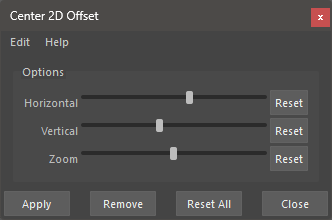
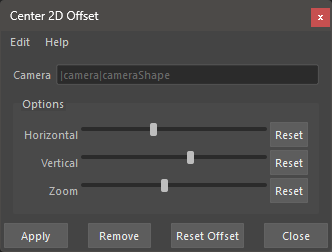
Maya Tool - Fix Center 2D Offset node update bug
The Center 2D Offset UI was not updating the nodes used under the hood
when the centering was created after the UI was opened - it only found
the nodes when the UI was opened.

Added a "Camera" label, so the user can see which camera is being
controlled.

Renamed "Reset All" button to "Reset Offset" because the later is more
descriptive to what the button actually does - What does "Reset All"
mean? What is "all"?

diff --git a/python/mmSolver/tools/centertwodee/ui/centertwodee_window.py b/python/mmSolver/tools/centertwodee/ui/centertwodee_window.py
@@ -65,8 +65,11 @@ class CenterTwoDeeWindow(BaseWindow):
         super(CenterTwoDeeWindow, self).__init__(parent, name=name)
         self.setupUi(self)
         self.addSubForm(centertwodee_layout.CenterTwoDeeLayout)
-        self.offset_node, self.camera_shape = lib.get_offset_nodes()
         self.form = self.getSubForm()
+
+        self.offset_node = None
+        self.camera_shape = None
+        self.update_nodes()
 
         # Set slider defaults in subform
         self.set_initial_values()
@@ -81,7 +84,7 @@ class CenterTwoDeeWindow(BaseWindow):
         self.form.zoom_horizontalSlider.valueChanged.connect(self.form.zoomValueChanged)
         self.form.horizontal_signal.connect(self.horizontal_offset_node_update)
         self.form.vertical_signal.connect(self.vertical_offset_node_update)
-        self.form.zoom_signal.connect(self.camera_shape_update)
+        self.form.zoom_signal.connect(self.zoom_camera_shape_update)
 
         self.setWindowTitle(const.WINDOW_TITLE)
         self.setWindowFlags(QtCore.Qt.Tool)
@@ -94,7 +97,7 @@ class CenterTwoDeeWindow(BaseWindow):
         self.closeBtn.show()
         self.createBtn.setText('Apply')
         self.applyBtn.setText('Remove')
-        self.resetBtn.setText('Reset All')
+        self.resetBtn.setText('Reset Offset')
 
         self.createBtn.clicked.connect(self.apply_center)
         self.applyBtn.clicked.connect(self.remove_center)
@@ -132,7 +135,7 @@ class CenterTwoDeeWindow(BaseWindow):
         return
 
     @QtCore.Slot(float)
-    def camera_shape_update(self, value):
+    def zoom_camera_shape_update(self, value):
         output = lib.process_value(input_value=value, source='slider', zoom=True)
         if self.camera_shape:
             lib.set_zoom(self.camera_shape, output)
@@ -148,11 +151,28 @@ class CenterTwoDeeWindow(BaseWindow):
 
         tool.remove()
 
+    def update_nodes(self):
+        self.offset_node, self.camera_shape = lib.get_offset_nodes()
+
+        enabled = bool(self.offset_node and self.camera_shape)
+        self.form.horizontal_horizontalSlider.setEnabled(enabled)
+        self.form.vertical_horizontalSlider.setEnabled(enabled)
+        self.form.zoom_horizontalSlider.setEnabled(enabled)
+
+        if enabled is True:
+            self.form.camera_lineEdit.setText(self.camera_shape)
+        else:
+            self.form.camera_lineEdit.setText('')
+
+            # Ensure both are not set.
+            self.offset_node = None
+            self.camera_shape = None
+
     def reset_options(self):
         self.form.reset_options()
 
     def set_initial_values(self):
-        if not self.offset_node:
+        if not self.offset_node or not self.camera_shape:
             horizontal_slider_value = const.DEFAULT_SLIDER_VALUE
             vertical_slider_value = const.DEFAULT_SLIDER_VALUE
             zoom_slider_value = const.DEFAULT_SLIDER_VALUE

diff --git a/python/mmSolver/tools/centertwodee/tool.py b/python/mmSolver/tools/centertwodee/tool.py
@@ -35,6 +35,14 @@ import mmSolver.utils.reproject as reproject_utils
 LOG = mmSolver.logger.get_logger()
 
 
+def _update_ui_nodes():
+    import mmSolver.tools.centertwodee.ui.centertwodee_window as window
+
+    window_instance = window.CenterTwoDeeWindow.get_instance()
+    if window_instance is not None:
+        window_instance.update_nodes()
+
+
 def main():
     """
     Center the selected transform onto the camera view.
@@ -54,12 +62,14 @@ def main():
     if model_editor is None:
         msg = 'Please select an active 3D viewport.'
         LOG.warning(msg)
+        _update_ui_nodes()
         return
 
     cam_tfm, cam_shp = viewport_utils.get_viewport_camera(model_editor)
     if cam_shp is None:
         msg = 'Please select an active 3D viewport to get a camera.'
         LOG.warning(msg)
+        _update_ui_nodes()
         return
 
     try:
@@ -140,6 +150,7 @@ def main():
             maya.cmds.select(save_sel, replace=True)
     finally:
         mmapi.set_solver_running(False)
+        _update_ui_nodes()
     return
 
 
@@ -151,12 +162,14 @@ def remove():
     if model_editor is None:
         msg = 'Please select an active 3D viewport.'
         LOG.warning(msg)
+        _update_ui_nodes()
         return
 
     cam_tfm, cam_shp = viewport_utils.get_viewport_camera(model_editor)
     if cam_shp is None:
         msg = 'Please select an active 3D viewport to get a camera.'
         LOG.warning(msg)
+        _update_ui_nodes()
         return
 
     LOG.warning('Removing 2D centering from %r', cam_tfm)
@@ -167,6 +180,7 @@ def remove():
         reproject_utils.reset_pan_zoom(cam_tfm, cam_shp)
     finally:
         mmapi.set_solver_running(False)
+        _update_ui_nodes()
     return
 
 

diff --git a/docs/source/tools_displaytools.rst b/docs/source/tools_displaytools.rst
@@ -43,7 +43,7 @@ Usage to *apply* the centering effect:
 
    - Click 'Remove' button to remove the Center 2D.
 
-   - Click 'Reset All' button to reset all the 2D offsets.
+   - Click 'Reset Offset' button to reset all the 2D offsets.
 
    - Click 'Close' button to close the window.
 
